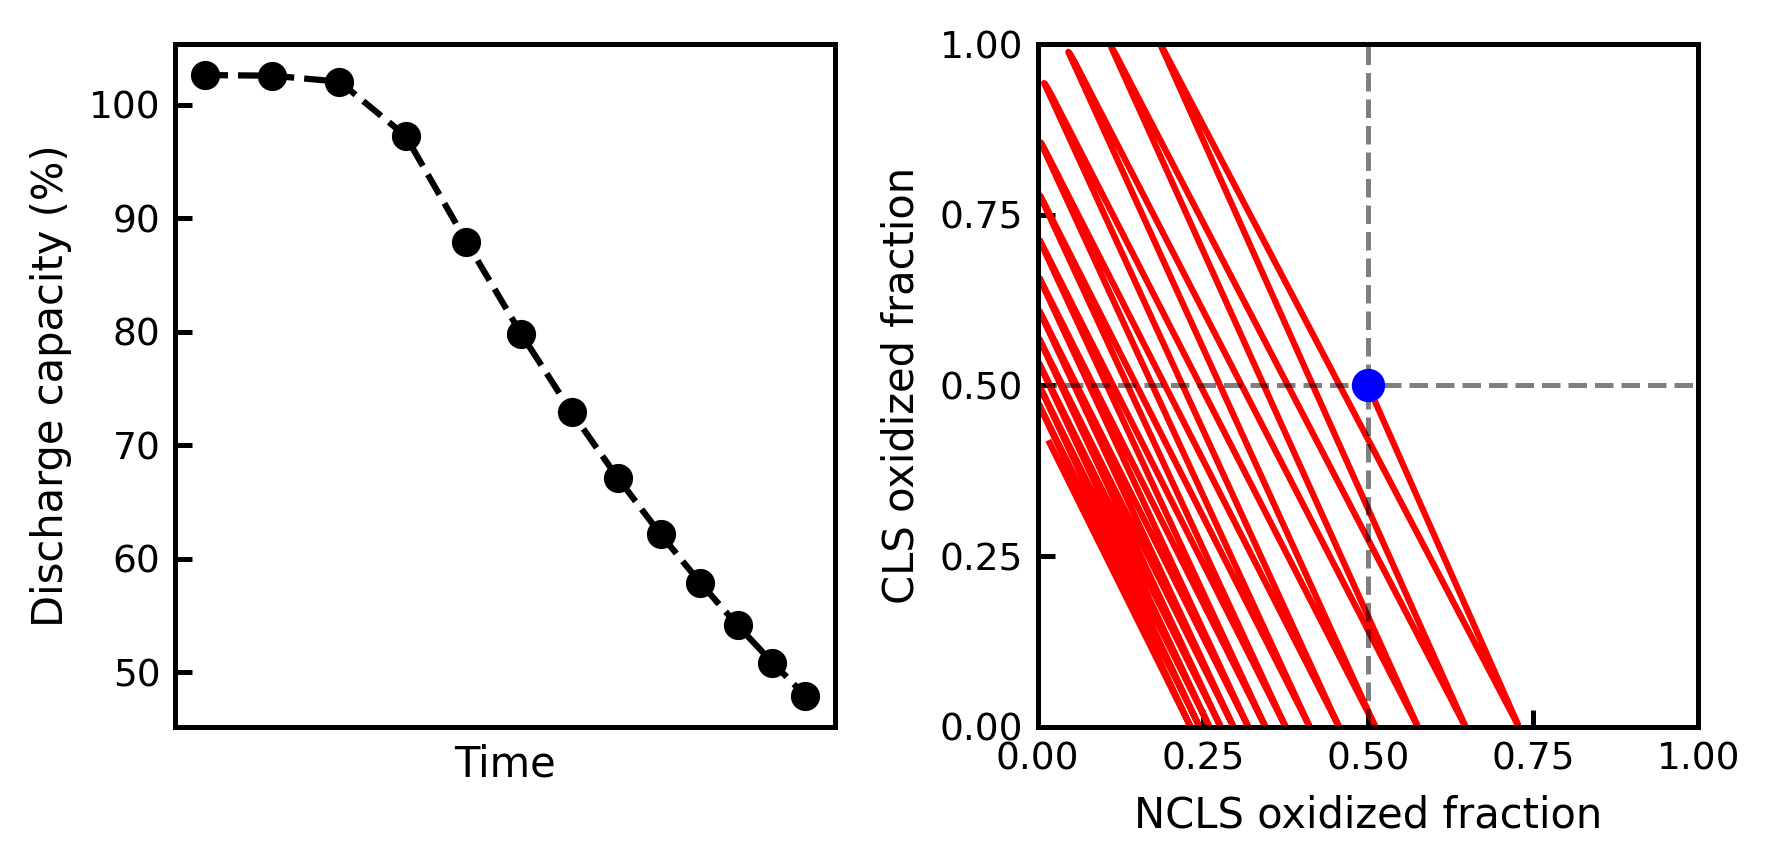
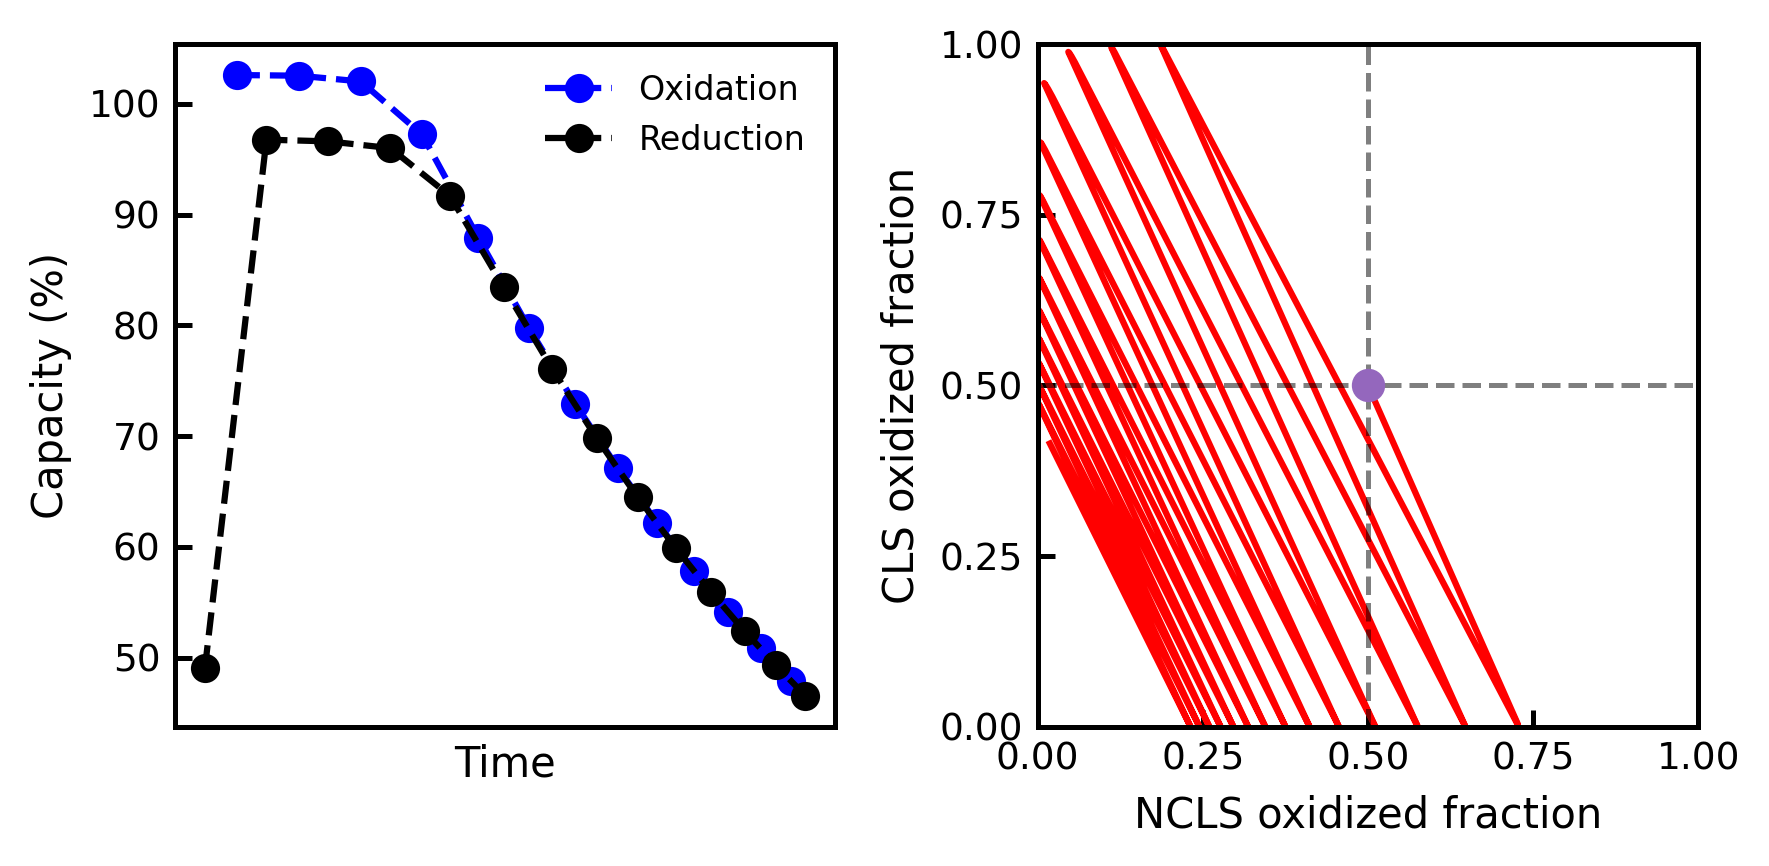
update fig 2

diff --git a/joss-paper/paper.md b/joss-paper/paper.md
@@ -137,7 +137,7 @@ results = protocol.run(
     duration=4000)
 ```
 
-![Half-cycle capacities (left) and temporal evolution of reservoir states-of-charge (right) are readily accessed. Symmetric cell starts with both reservoirs at 50% state-of-charge (blue circle).](./fig_2.png)
+![Half-cycle capacities (left) and temporal evolution of reservoir states-of-charge (right) are readily accessed. Symmetric cell starts with both reservoirs at 50% state-of-charge (purple circle).](./fig_2.png)
 
 
 # Acknowledgements
